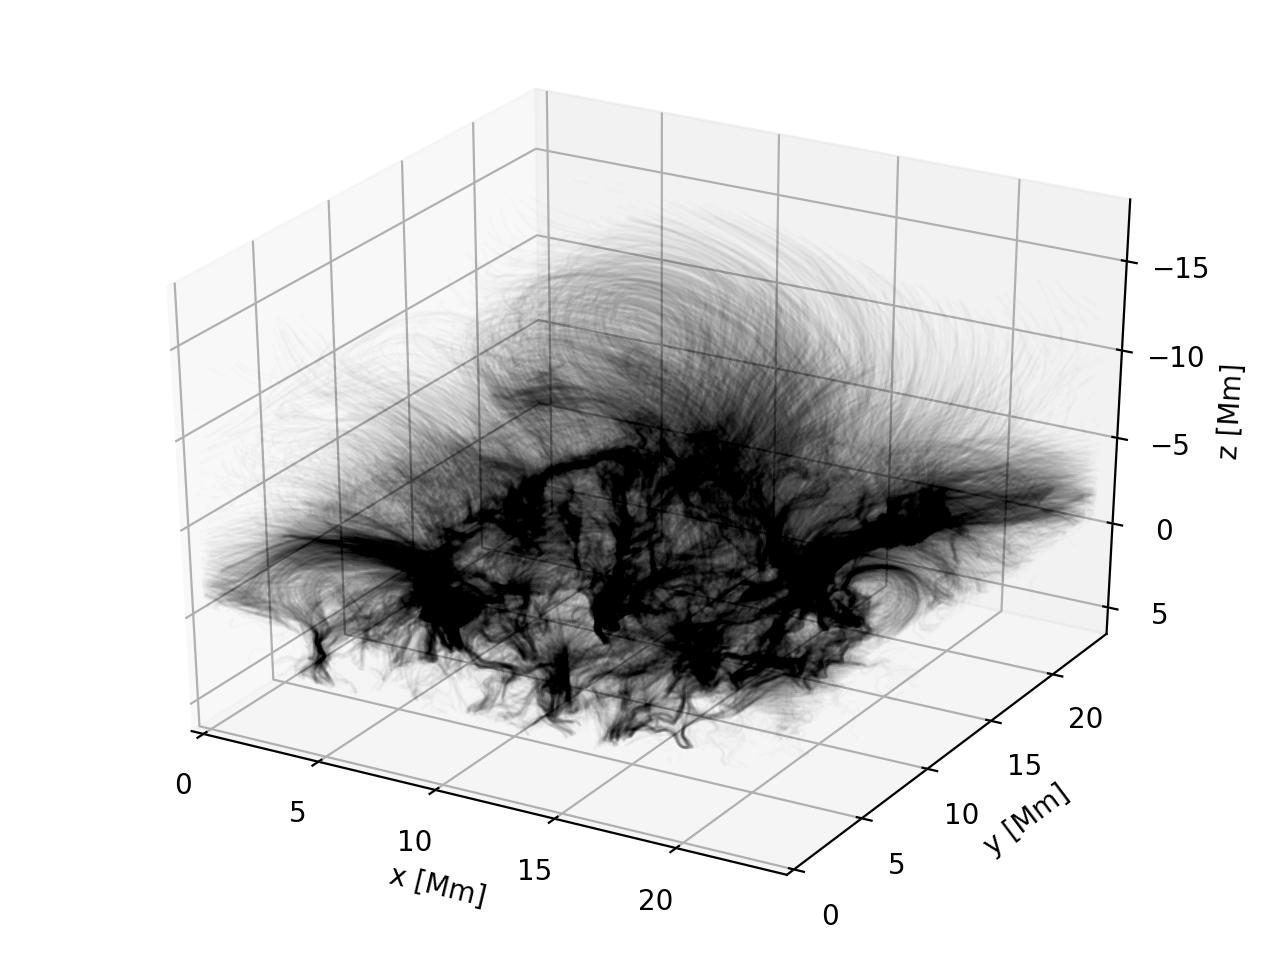
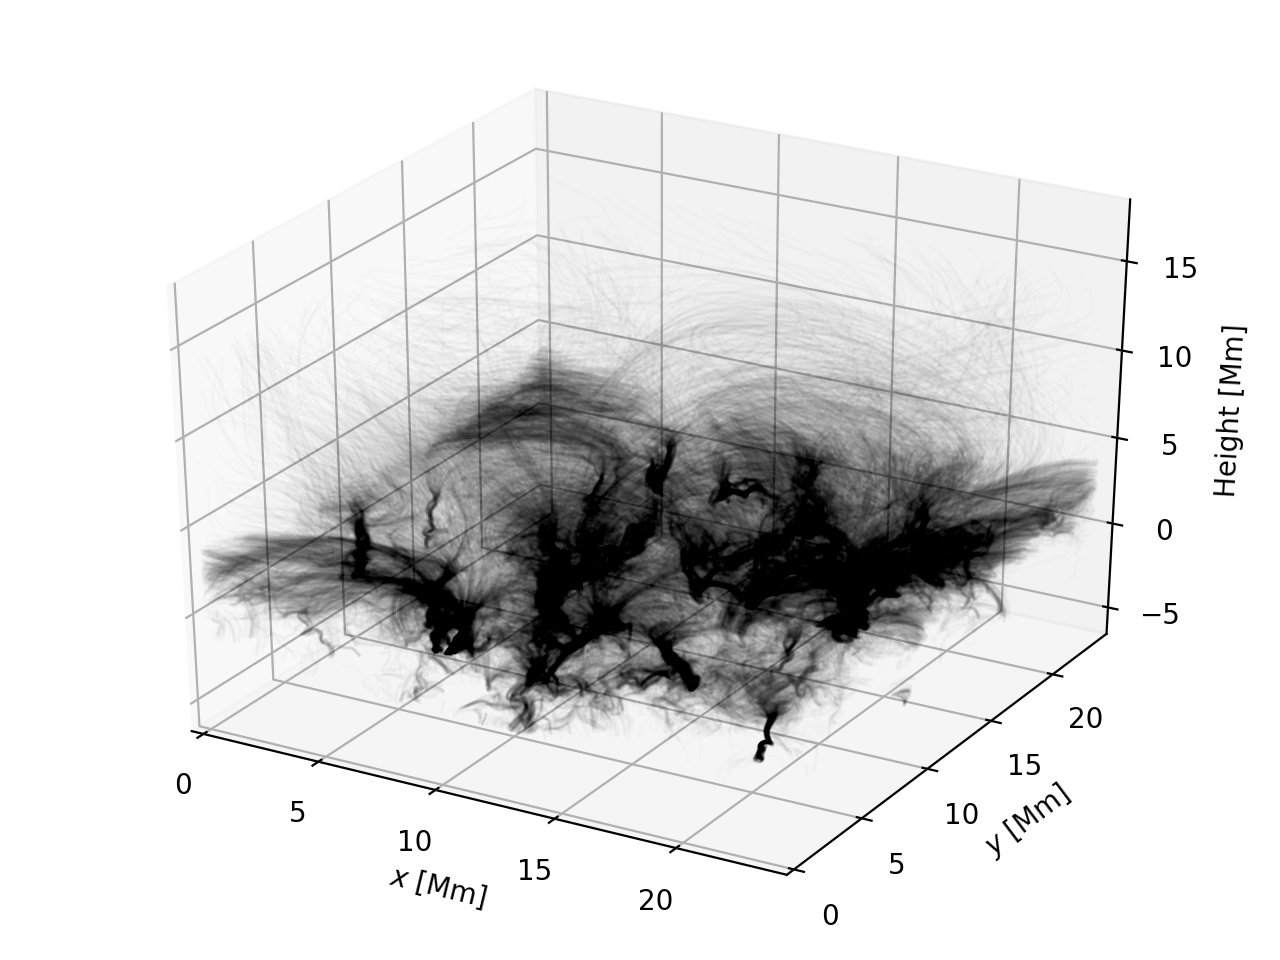
Update README and figures

diff --git a/README.md b/README.md
@@ -14,91 +14,116 @@ Rust is highly suited for this project, for a number of reasons. It is a low-lev
 
 You need to have the Rust toolchain installed in order to build the binaries. Installation instructions can be found at https://www.rust-lang.org/tools/install.
 
+If you want to work with [NetCDF](https://www.unidata.ucar.edu/software/netcdf/) files, the `netCDF-C` library must be available to link with. Installation instructions can be found at https://www.unidata.ucar.edu/software/netcdf/docs/getting_and_building_netcdf.html.
+
 ## Installation
 
-Simply clone this repository.
+### Using `cargo install`
 
-## Compilation
+The Rust package manager `cargo` can be used to download, build and install the `backstaff` binary:
+```
+$ cargo install --git=https://github.com/lars-frogner/Backstaff.git
+```
+By default the binary will be placed in `$HOME/.cargo/bin`. A different directory can be specified with the option `--root=<DIR>`.
 
-You can compile the code using the `cargo build` command. Make sure to add the `--release` flag so that optimizations are turned on. The code consists of a core API as well as a set of optional features, some of which are included by default. You can specify additional features to include with the `--features` flag. The `--no-default-features` flag can be used to disable the default features.
+**_NOTE:_** Compilation can be quite slow because some of the code relies heavily on macros, which are time consuming to compile. If this is an issue, compilation can be sped up by adding the `--branch=const-generics-interp`, which installs a branch using the experimental [Const generics](https://github.com/rust-lang/rfcs/blob/master/text/2000-const-generics.md) Rust functionality to avoid macros. However, this requires that you activate the nightly Rust compiler by running `rustup default nightly` prior to `cargo install`. Revert to the stable compiler afterwards by running `rustup default stable`.
+
+### Compiling from source
+
+You can compile the code in this repository using the `cargo build` command. Make sure to add the `--release` flag so that optimizations are turned on.
 
 ## Features
 
+The code consists of a core API as well as a set of optional features, some of which are included by default. You can specify additional features by adding the `--features` flag to `cargo install` or `cargo build`, e.g. `cargo build --features=tracing,netcdf`. The `--no-default-features` flag can be used to disable the default features.
+
 Currently the available features are:
-* `cli`: A module exposing a command line interface (CLI) for applying the various tools in the library. This feature is included by default.
+* `cli`: A module exposing a command line interface (CLI) for applying the various tools in the library. This feature is included by default, but can be disabled if you only want to use the API.
 * `tracing`: A module for tracing field lines. Including it will add the `snapshot-trace` subcommand to the CLI.
 * `ebeam`: A module for simulating electron beams. Including it will add the `snapshot-ebeam` subcommand to the CLI. Requires `tracing`.
+* `netcdf`: Support for reading and writing simulation data in the [NetCDF](https://www.unidata.ucar.edu/software/netcdf/) format (using the [CF conventions](http://cfconventions.org/)).
 
-## Documentation
+## API Documentation
 
 The API documentation can be generated and viewed in your browser by running `cargo doc --open` in the project repository. If using non-default features you need to specify them with a `--features` flag in order for them to be included in the documentation.
 
 ## Using the command line program
 
-The simplest way to run the command line executable is with `cargo run` command. This will also perform any necessary compilation prior to running the program. All arguments following a double dash (`--`) will be passed along to the command line program.
+If you have installed the binary, simply run the `backstaff` command. If you instead are running directly from the repository, the simplest way to run the command line executable is with `cargo run` command. This will also perform any necessary compilation prior to running the program. All arguments following a double dash (`--`) will then be passed along to the `backstaff` program.
 
 Actions are specified and configured through a hierachy of subcommands, which can be inspected by looking at their help texts. For example, the help text for the `snapshot` subcommand can be viewed as follows:
 ```
-$ cargo run --release -- snapshot -h
+$ backstaff snapshot -h
 backstaff-snapshot
 Specify input snapshot to perform further actions on
 
 USAGE:
-    backstaff snapshot [FLAGS] [OPTIONS] --param-path=<PATH> <SUBCOMMAND>
+    backstaff snapshot [FLAGS] [OPTIONS] <INPUT_FILE> <SUBCOMMAND>
 
 FLAGS:
-    -v, --verbose    Print status messages while reading fields
+    -v, --verbose    Print status messages related to reading
     -h, --help       Print help information
 
 OPTIONS:
-    -p, --param-path=<PATH>          Path to the parameter (.idl) file for the snapshot
-    -g, --grid-type=<TYPE>           Type of grid to assume for the snapshot
-                                      [default: horizontally-regular]  [possible values: horizontally-regular, regular]
-    -e, --endianness=<ENDIANNESS>    Endianness to assume for the snapshot
-                                      [default: little]  [possible values: little, big]
+    -e, --endianness=<ENDIANNESS>    Endianness to assume for snapshots in native binary format
+                                      [default: little]  [possible values: little, big, native]
+
+ARGS:
+    <INPUT_FILE>    Path to the file representing the snapshot.
+                    Assumes the following format based on the file extension:
+                    *.idl: Parameter file with associated .snap [and .aux] file
+                    *.nc: NetCDF file using the CF convention (requires the netcdf feature)
 
 SUBCOMMANDS:
     inspect     Inspect properties of the snapshot
     slice       Extract a 2D slice of a quantity field in the snapshot
     resample    Creates a resampled version of the snapshot
+    write       Write snapshot data to file
 ```
+
+Here is a graph of the command hierarchy available when the default features are enabled.
+![command_graph](figures/command_graph.png "Command graph")
+
+This graph was created with the hidden `backstaff-command_graph` command, which outputs the command hierarchy graph in DOT format for rendering with [Graphviz](https://www.graphviz.org/).
+
+## Examples
+
+### Printing snapshot statistics
 
 Printing some statistics for density and temperature in a snapshot could look like this:
 ```
-$ cargo run --release -- \
-    snapshot --param-path=en024031_emer3.0str_ebeam_351.idl \
-    inspect \
-    statistics --quantities=r,tg
+$ backstaff snapshot photo_tr_001.idl inspect statistics r,tg
 *************** Statistics for r ***************
 Number of values: 452984832
 Number of NaNs:   0
-Minimum value:    0.000000009510704 at [542, 704, 104] = (16.9375, 22, -8.260805)
-Maximum value:    302.91656 at [174, 64, 767] = (5.4375, 2, 2.513908)
-Average value:    13.05826
+Minimum value:    0.000000018624148 at [287, 212, 188] = (8.96875, 6.625, -5.801833)
+Maximum value:    323.4068 at [374, 144, 767] = (11.6875, 4.5, 2.513908)
+Average value:    13.808196
 *************** Statistics for tg ***************
 Number of values: 452984832
 Number of NaNs:   0
-Minimum value:    1998.5657 at [576, 219, 443] = (18, 6.84375, -2.108491)
-Maximum value:    4060329 at [81, 746, 0] = (2.53125, 23.3125, -14.29715)
-Average value:    576887.3
+Minimum value:    1998.7125 at [271, 619, 513] = (8.46875, 19.34375, -1.240245)
+Maximum value:    4552963 at [491, 479, 0] = (15.34375, 14.96875, -14.29715)
+Average value:    799067.2
 ```
+
+### Tracing magnetic field lines
 
 Here is a more complicated example where we trace a set of magnetic field lines from 100x100 regularly spaced locations in the upper chromosphere:
 ```
-$ cargo run --release --features tracing -- \
-    --timing \
-    snapshot --param-path=en024031_emer3.0str_ebeam_351.idl \
-    trace --verbose --output-path=field_lines.fl \
-    basic_tracer --max-length=100.0 \
-    slice_seeder --axis=z --coord=-2.0 \
-    regular --shape=100,100
+$ backstaff --timing \
+    snapshot photo_tr_001.idl \
+    trace --verbose field_lines.fl \
+        basic_tracer --max-length=100.0 \
+        slice_seeder --axis=z --coord=-2.0 \
+            regular --shape=100,100
 Found 10000 start positions
 Successfully traced 10000 field lines
 Saving field lines in field_lines.fl
-Elapsed time: 14.990034051 s
+Elapsed time: 12.731385333 s
 ```
+**_NOTE:_** The program has to be built with the `--features=tracing` option in order for the `trace` command to become available.
 
-Using the included `backstaff` Python package we can easily read and visualize the field line data:
+Using the `backstaff` Python package included in this repository, we can easily read and visualize the field line data:
 ```python
 import backstaff.field_lines as field_lines
 field_line_set = field_lines.FieldLineSet3.from_file('field_lines.fl')
@@ -107,3 +132,31 @@ field_lines.plot_field_lines(field_line_set, alpha=0.01, output_path='field_line
 
 This is the resulting figure:
 ![field_lines](figures/field_lines.png "Magnetic field lines")
+
+### Creating a NetCDF file for visualization
+
+By enabling the `netcdf` feature, it is easy to convert snapshot data into the NetCDF format, which is supported by various visualization tools like [ParaView](https://www.paraview.org/) and [VAPOR](https://www.vapor.ucar.edu/). In the following example, the temperature and mass density fields in a Bifrost snapshot are resampled to a regular 512<sup>3</sup> grid and written to a NetCDF file.
+```
+$ backstaff \
+    snapshot photo_tr_001.idl \
+    resample -v --shape=512,512,512 weighted_sample_averaging \
+    write -v --strip --included-quantities=r,tg photo_tr_001.nc
+Writing grid to photo_tr_001.nc
+Resampling r
+Writing r to photo_tr_001.nc
+Resampling tg
+Writing tg to photo_tr_001.nc
+```
+
+Here is a ParaView volume rendering of the resulting temperature field:
+![volume_rendering](figures/volume_rendering.png "Volume rendering")
+
+## Enabling tab-completion for `backstaff` arguments
+
+The [clap](https://clap.rs/) argument parser powering the `backstaff` CLI can generate tab-completion files compatible with various shells. This can be done for `backstaff` using the hidden `backstaff-completions` command. To generate files for your shell, start by running
+```
+$ backstaff completions -h
+```
+and follow the instructions.
+
+**_NOTE:_**  Unfortunately, automatic completion of file paths is currently not supported by the generated completion file, meaning that paths will not be completed inside the `backstaff` command if argument completion is enabled.
